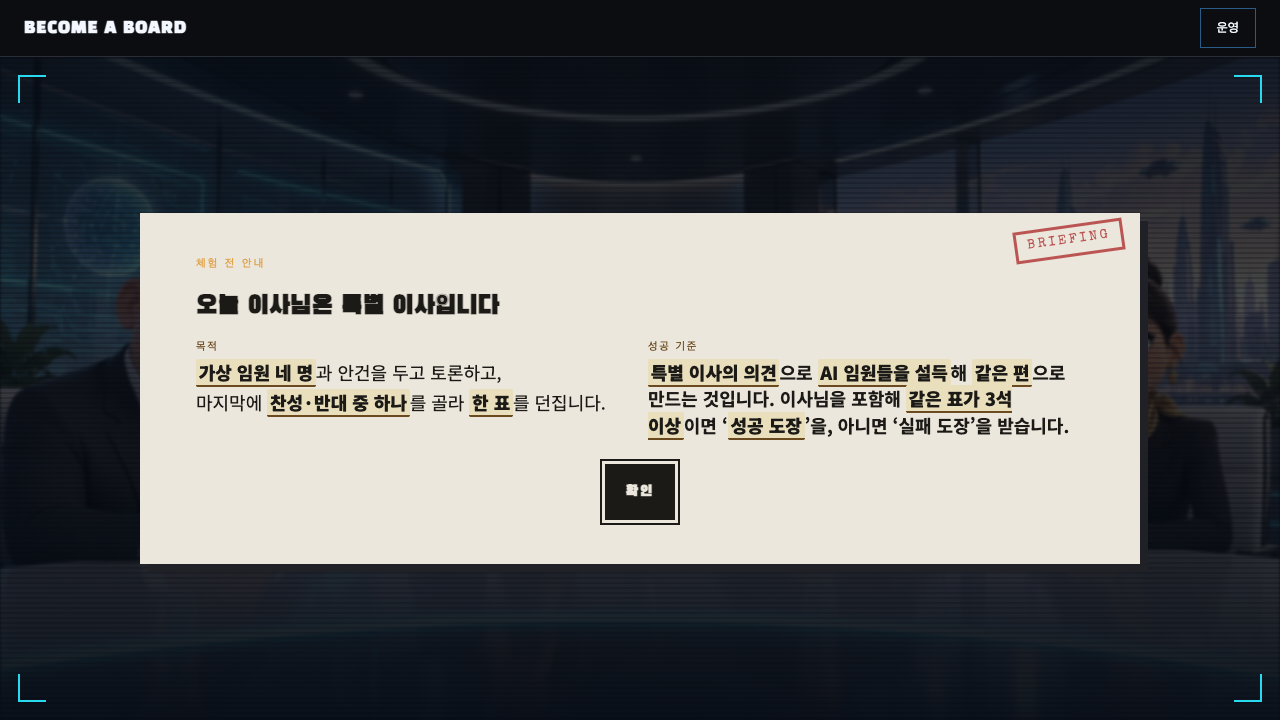
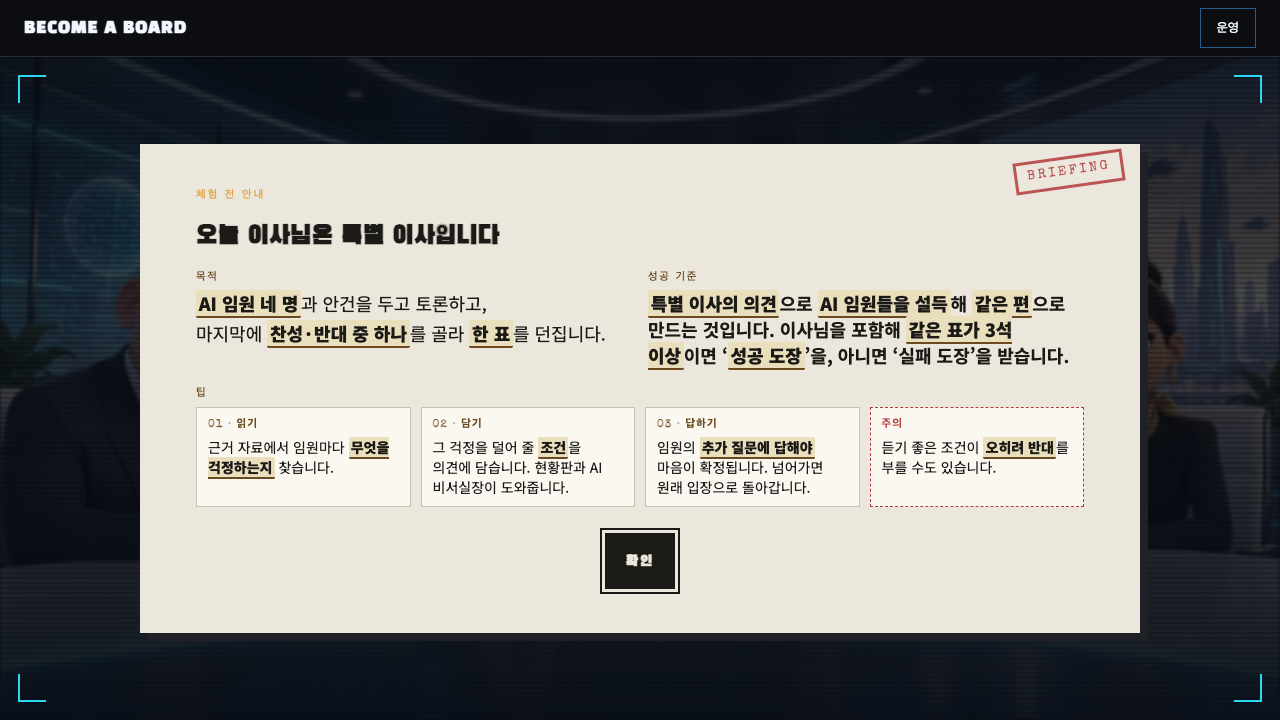
T125: 체험 전 안내에 '팁' 4단계 카드(A안) 추가

Changed region(s): [[0.0938, 0.1833, 0.9062, 0.8861], [0.1562, 0.6111, 0.3125, 0.6722]]

diff --git a/tests/components/IntroScreen.test.tsx b/tests/components/IntroScreen.test.tsx
@@ -4,6 +4,7 @@
 import '@testing-library/jest-dom/vitest';
 import { afterEach, describe, expect, it, vi } from 'vitest';
 import { cleanup, fireEvent, render, screen } from '@testing-library/react';
+import { findForbiddenWords } from '../../server/prompts/plainLanguage';
 import { IntroScreen } from '../../src/components/screens/IntroScreen';
 
 afterEach(() => {
@@ -13,7 +14,7 @@ afterEach(() => {
 describe('IntroScreen', () => {
   const noop = () => undefined;
 
-  it('목적·성공 기준만 보여 주고 진행 5단계·팁은 없다(T103)', () => {
+  it('목적·성공 기준만 보여 주고 진행 5단계는 없다(T103, 팁 카드는 T125)', () => {
     render(<IntroScreen onStart={noop} />);
 
     expect(screen.getByRole('heading', { name: '오늘 이사님은 특별 이사입니다' })).toBeInTheDocument();
@@ -21,7 +22,6 @@ describe('IntroScreen', () => {
     expect(purposes).toEqual(['AI 임원 네 명과 안건을 두고 토론하고,', '마지막에 찬성·반대 중 하나를 골라 한 표를 던집니다.']);
     expect(screen.getByTestId('intro-success')).toHaveTextContent('3석 이상');
     expect(screen.queryByTestId('intro-steps')).toBeNull();
-    expect(document.querySelector('.intro-screen__tips')).toBeNull();
     expect(document.body.textContent).not.toContain('진행 5단계');
   });
 
@@ -35,6 +35,29 @@ describe('IntroScreen', () => {
     expect(screen.getByTestId('intro-success').querySelectorAll('mark.key-term').length).toBeGreaterThanOrEqual(2);
     // 2026-10-09 사용자 지시: 성공 기준은 "특별 이사의 의견으로 AI 임원들을 설득해 같은 편으로 만드는 것".
     expect(screen.getByTestId('intro-success').textContent).toContain('특별 이사의 의견으로 AI 임원들을 설득해 같은 편으로 만드는 것');
+  });
+
+  it('팁 4단계 카드를 라벨 \'팁\'과 함께 보여 주고 핵심 말을 강조한다(T125)', () => {
+    render(<IntroScreen onStart={noop} />);
+
+    const tips = screen.getByTestId('intro-tips');
+    expect(tips).toHaveTextContent('팁');
+    expect(tips.textContent).not.toContain('이기는 순서');
+    const cards = screen.getAllByTestId('intro-tip');
+    expect(cards).toHaveLength(4);
+    expect(cards.map((c) => c.querySelector('b')?.textContent)).toEqual(['01 · 읽기', '02 · 담기', '03 · 답하기', '주의']);
+    expect(cards[0]).toHaveTextContent('근거 자료에서 임원마다 무엇을 걱정하는지 찾습니다.');
+    expect(cards[1]).toHaveTextContent('그 걱정을 덜어 줄 조건을 의견에 담습니다. 현황판과 AI 비서실장이 도와줍니다.');
+    expect(cards[2]).toHaveTextContent('임원의 추가 질문에 답해야 마음이 확정됩니다. 넘어가면 원래 입장으로 돌아갑니다.');
+    expect(cards[3]).toHaveTextContent('듣기 좋은 조건이 오히려 반대를 부를 수도 있습니다.');
+    expect(cards[3]).toHaveClass('intro-screen__tip--warn');
+    const marked = cards.map((c) => Array.from(c.querySelectorAll('mark.key-term')).map((m) => m.textContent));
+    expect(marked).toEqual([['무엇을 걱정하는지'], ['조건'], ['추가 질문에 답해야'], ['오히려 반대']]);
+  });
+
+  it('팁 문구에 어려운 말이 없다(T93 규칙)', () => {
+    render(<IntroScreen onStart={noop} />);
+    expect(findForbiddenWords(screen.getByTestId('intro-tips').textContent ?? '')).toEqual([]);
   });
 
   it('시작 버튼은 "확인" 하나뿐이고 누르면 콜백을 부른다', () => {

diff --git a/src/components/screens/IntroScreen.tsx b/src/components/screens/IntroScreen.tsx
@@ -30,6 +30,23 @@ export const INTRO_HIGHLIGHT_TERMS: readonly string[] = [
   '성공 도장',
 ];
 
+/** 체험 전 안내의 '팁' 4단계 카드(T125, 2026-10-12 사용자 — "'팁'으로 써 주고 A안으로").
+ * 함정 조건의 이름이나 임원별 정답은 밝히지 않고 흐름만 알려 준다. */
+export const INTRO_TIPS_LABEL = '팁';
+export interface IntroTip {
+  tag: string;
+  text: string;
+  /** 카드마다 강조할 말(카드 문장 속 글자와 일치할 때만 표시). */
+  terms: readonly string[];
+  warn?: boolean;
+}
+export const INTRO_TIPS: readonly IntroTip[] = [
+  { tag: '01 · 읽기', text: '근거 자료에서 임원마다 무엇을 걱정하는지 찾습니다.', terms: ['무엇을 걱정하는지'] },
+  { tag: '02 · 담기', text: '그 걱정을 덜어 줄 조건을 의견에 담습니다. 현황판과 AI 비서실장이 도와줍니다.', terms: ['조건'] },
+  { tag: '03 · 답하기', text: '임원의 추가 질문에 답해야 마음이 확정됩니다. 넘어가면 원래 입장으로 돌아갑니다.', terms: ['추가 질문에 답해야'] },
+  { tag: '주의', text: '듣기 좋은 조건이 오히려 반대를 부를 수도 있습니다.', terms: ['오히려 반대'], warn: true },
+];
+
 // 2026-10-09 사용자 지시: "성공 기준은 특별 이사의 의견으로 AI 임원들을 설득시켜 같은 편으로 만드는 것".
 const SUCCESS_TEXT =
   '특별 이사의 의견으로 AI 임원들을 설득해 같은 편으로 만드는 것입니다. 이사님을 포함해 같은 표가 3석 이상이면 ‘성공 도장’을, 아니면 ‘실패 도장’을 받습니다.';
@@ -78,6 +95,24 @@ export function IntroScreen({ onStart }: IntroScreenProps) {
                 <HighlightText text={SUCCESS_TEXT} terms={INTRO_HIGHLIGHT_TERMS} />
               </p>
             </div>
+          </div>
+        </div>
+
+        <div className="intro-screen__block" data-testid="intro-tips">
+          <span className="intro-screen__label">{INTRO_TIPS_LABEL}</span>
+          <div className="intro-screen__tips">
+            {INTRO_TIPS.map((tip) => (
+              <div
+                key={tip.tag}
+                className={tip.warn ? 'intro-screen__tip intro-screen__tip--warn' : 'intro-screen__tip'}
+                data-testid="intro-tip"
+              >
+                <b className="intro-screen__tip-tag">{tip.tag}</b>
+                <p className="intro-screen__tip-text">
+                  <HighlightText text={tip.text} terms={tip.terms} />
+                </p>
+              </div>
+            ))}
           </div>
         </div>
 

diff --git a/src/styles/screens/intro.css b/src/styles/screens/intro.css
@@ -159,3 +159,66 @@
   justify-content: center;
   margin-top: 8px;
 }
+
+/* 팁 4단계 카드(T125): 4열 같은 높이·같은 안쪽 여백. 720 이하에서는 글자·여백을 한 단계 줄인다. */
+.intro-screen__tips {
+  display: grid;
+  grid-template-columns: repeat(4, minmax(0, 1fr));
+  gap: 14px;
+  margin-top: 6px;
+}
+
+.intro-screen__tip {
+  display: flex;
+  flex-direction: column;
+  gap: 6px;
+  min-width: 0;
+  box-sizing: border-box;
+  padding: 14px 16px;
+  border: 1px solid var(--paper-border);
+  background: var(--paper-2);
+}
+
+.intro-screen__tip-tag {
+  font-family: var(--font-label);
+  font-size: 13px;
+  letter-spacing: 0.12em;
+  color: var(--label);
+}
+
+.intro-screen__tip-text {
+  margin: 0;
+  font-size: 17px;
+  line-height: 1.5;
+  color: var(--ink);
+}
+
+.intro-screen__tip--warn {
+  border-style: dashed;
+  border-color: var(--stamp-red);
+}
+
+.intro-screen__tip--warn .intro-screen__tip-tag {
+  color: var(--stamp-red);
+}
+
+@media (max-width: 1280px) {
+  .intro-screen__tips {
+    gap: 10px;
+    margin-top: 2px;
+  }
+
+  .intro-screen__tip {
+    gap: 4px;
+    padding: 9px 11px;
+  }
+
+  .intro-screen__tip-tag {
+    font-size: 11px;
+  }
+
+  .intro-screen__tip-text {
+    font-size: 14px;
+    line-height: 1.45;
+  }
+}

diff --git a/e2e/noscroll.spec.ts b/e2e/noscroll.spec.ts
@@ -50,6 +50,16 @@ test('ATTRACT부터 RESULT까지 모든 단계가 페이지 스크롤 없이 한
   await expectNoPageScroll(page, 'ATTRACT');
 
   await page.getByRole('button', { name: '체험 시작' }).click();
+  // INTRO(T125): 목적·성공 기준 아래 팁 카드까지 넘치지 않고 팝업 전체가 보인다.
+  await expect(page.getByTestId('intro-tips')).toBeVisible();
+  await expectNoPageScroll(page, 'INTRO');
+  await expectFullyVisible(page, 'intro-start', 'INTRO');
+  const paperBox = await page.locator('.intro-screen__paper').boundingBox();
+  expect(paperBox, 'INTRO: 안내 종이를 찾지 못했다').not.toBeNull();
+  expect(
+    paperBox!.y >= -1 && paperBox!.y + paperBox!.height <= (page.viewportSize()?.height ?? 0) + 1,
+    `INTRO: 안내 종이가 뷰포트를 벗어났다(top=${paperBox!.y}, h=${paperBox!.height})`,
+  ).toBe(true);
   await page.getByRole('button', { name: '확인', exact: true }).click();
   await expectNoPageScroll(page, 'SELECT');
   // 사건 헤드라인(T47): 카드 안에서 잘리지 않고 보인다.

diff --git a/docs/design/DESIGN_SPEC.md b/docs/design/DESIGN_SPEC.md
@@ -1209,3 +1209,9 @@ MOTION·다시 답하기(REACTIONS 2/2)·ATTRACT·INTRO·SELECT에는 안내가 
 - 사용자 지시(2026-10-12): "윈도우즈용으로 전체화면 단축키 추가해 주고 해제는 Esc로 해 줘."
 - `OperatorMenu`가 document `keydown`을 구독한다. **F11**은 브라우저 기본(창 전체화면, Esc로 안 나와짐·운영 버튼 안 숨음)을 `preventDefault`로 막고 `document.documentElement.requestFullscreen()`을 부른다. **Ctrl+Shift+F**도 같은 동작이며 input·textarea·contenteditable에 포커스가 있으면 무시한다. 이미 전체화면이면 F11만 기본 동작을 막고 아무것도 하지 않는다. 해제는 Esc(페이지 전체화면의 브라우저 기본 동작). 요청이 거부되면 조용히 무시한다.
 - T124(2026-10-12 사용자 지시 "맥에서도 단축키 추가해 줘 command+shift+k로"): **Command+Shift+K**(metaKey+shiftKey+K)도 같은 동작 — 입력 중 무시, 기본 동작 preventDefault, 해제 Esc.
+
+## T125 — 체험 전 안내 '팁' 4단계 카드(A안)
+
+- 사용자 지시(2026-10-12): "'이기는 순서'라는 말 대신 '팁'으로 써 주고 A안으로 해 줘." 기존 목적·성공 기준 두 열은 그대로 두고, 그 아래에 라벨 **팁**과 카드 4장을 한 줄로 놓는다.
+- 카드(`INTRO_TIPS`, `IntroScreen.tsx`): `01 · 읽기`(강조 '무엇을 걱정하는지'), `02 · 담기`('조건'), `03 · 답하기`('추가 질문에 답해야'), `주의`('오히려 반대', 점선 테두리·도장 빨강 라벨). 강조는 카드마다 자기 말만 `HighlightText`로 표시한다(카드 4의 '조건'은 강조하지 않는다).
+- 레이아웃: 4열 같은 높이·같은 안쪽 여백. 1080은 카드 글자 17px, 1280 이하(720)는 14px·여백 축소. 1366×768에서 팝업 위 107px~아래 749px, 문서 스크롤 없음. noscroll e2e에 INTRO 단계 단언 추가.

diff --git a/docs/TASKS.md b/docs/TASKS.md
@@ -11,7 +11,7 @@
 | 작업 | 상태 | 비고 |
 | --- | --- | --- |
 | T110 | 완료 | 난이도 조절 — 첫 의견(추천 문구)만으로 전원 설득되지 않게(2026-10-09 사용자 지시): 1차 반응은 조건이 맞아도 '고민 중'까지만, 추가 질문에 답(`session.followUpAnswered`)해야 찬성, 답하지 않고 넘어가면 표결에서 반대(반대 참가자는 대칭). scripted(`VoteContext.followUpAnswered`·`reactions[].pendingText`)와 live(프롬프트 v12) 모두. 상세는 아래 T110 카드와 DESIGN_SPEC T110 |
-| T125 | 진행 중 | 체험 전 안내에 '팁' 4단계 카드(A안: 기존 두 열 아래 한 줄)(2026-10-12 사용자 지시, 시안 https://claude.ai/artifact/Rd9dyywR4AJy5WDStVVqGR). 상세는 아래 T125 카드 |
+| T125 | 완료 | 체험 전 안내에 '팁' 4단계 카드(A안: 기존 두 열 아래 한 줄)(2026-10-12 사용자 지시, 시안 https://claude.ai/artifact/Rd9dyywR4AJy5WDStVVqGR). 상세는 아래 T125 카드 |
 | T124 | 완료 | Mac 전체화면 단축키 Command+Shift+K 추가(해제 Esc)(2026-10-12 사용자 지시) |
 | T123 | 완료 | 전체화면 단축키: F11·Ctrl+Shift+F로 페이지 전체화면(운영 버튼 숨김), 해제는 Esc(2026-10-12 사용자 지시) |
 | T122 | 완료 | 프롬프트 v14: 첫 반응에서 임원들이 각자 다른 질문을 던지지 않고 **화면의 추가 질문(followUp.question) 하나에 맞춰** 묻게, 답하면 그 답으로 판단(round·vote 요청에 `followUpQuestion`·`followUpAnswerText` 추가) + 평가 세트에 답변 문장 추가 후 live 재실측(2026-10-11 사용자 지시, v13 실측 후속). 조건 보완 → YES 3/12 → 12/12, 첫 반응 새 질문 31/65 → 1/64, 방향 누설 화면 0 유지(`docs/eval/tuning-v14.md`). 상세는 아래 T122 카드 |
